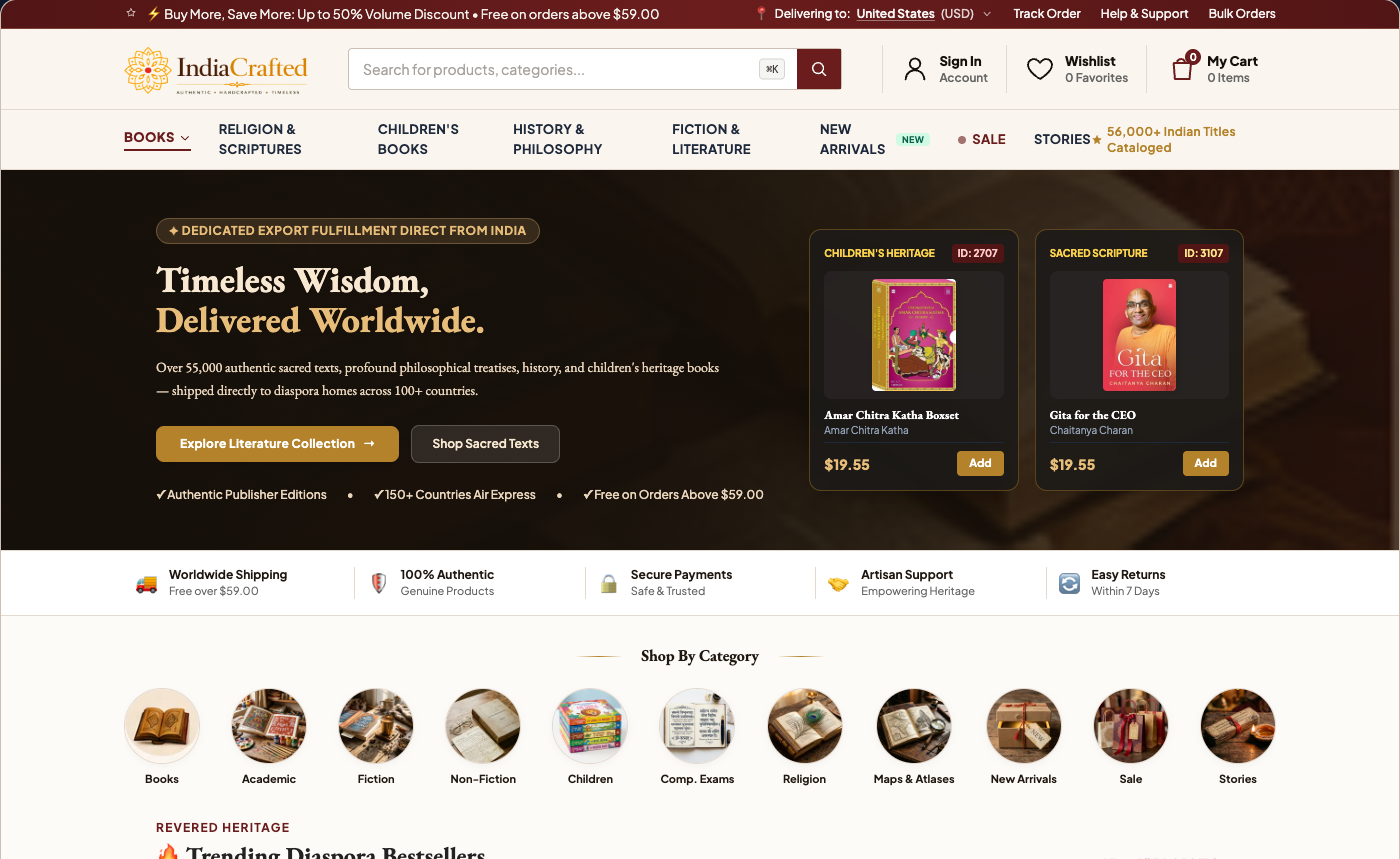
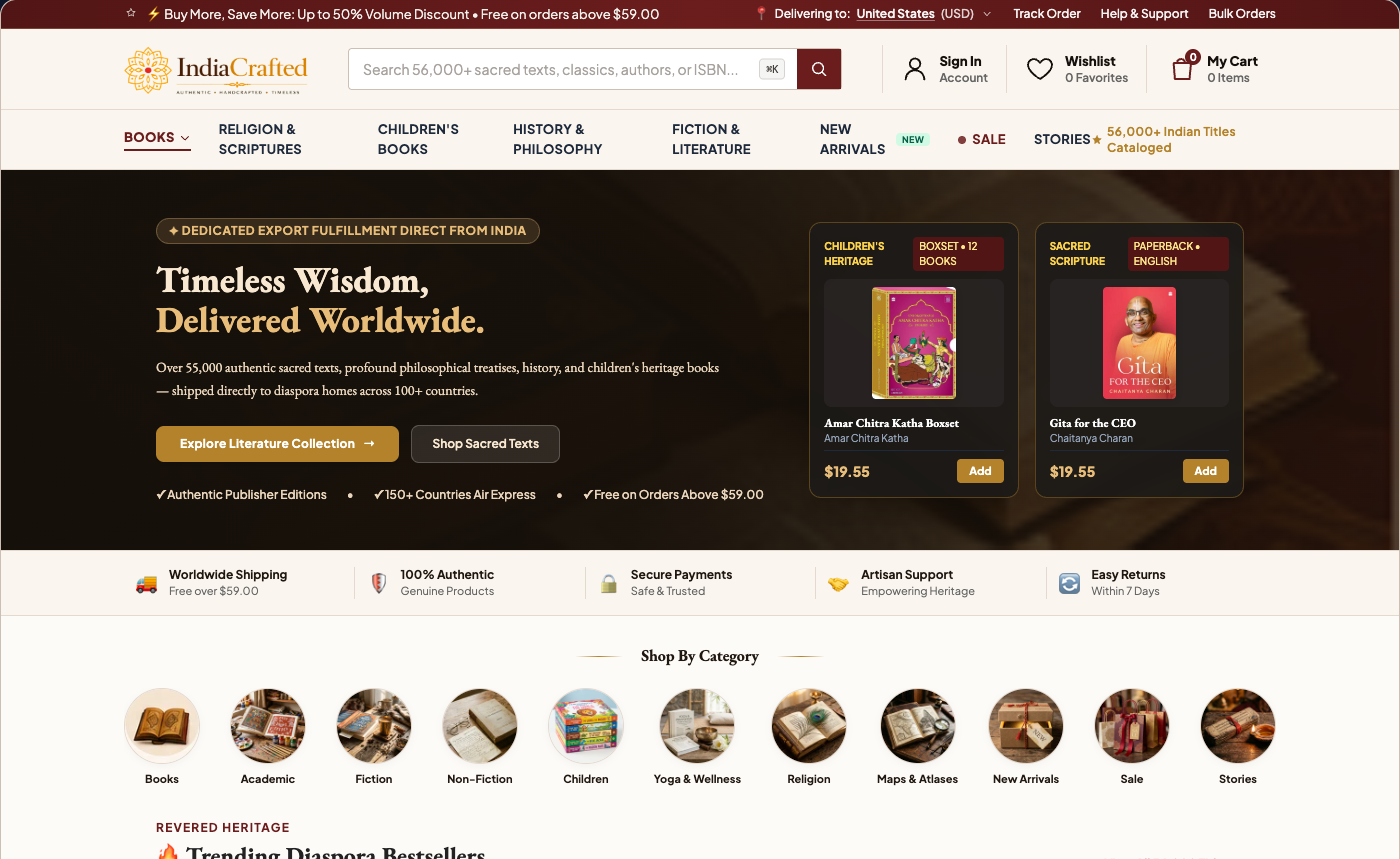
refactor: apply content & UI/UX improvements (editorial break, touch ergonomics, verified covers)

diff --git a/index.html b/index.html
@@ -217,7 +217,7 @@
           <!-- Exact Search Box with Command-K -->
           <div class="flex-1 max-w-xl mx-4">
             <div class="relative flex items-center bg-white border border-[#cdbfb4] rounded focus-within:border-[#6b1d1d] focus-within:ring-2 focus-within:ring-[#6b1d1d]/10 transition shadow-2xs">
-              <input type="text" placeholder="Search for products, categories..." class="w-full bg-transparent px-3.5 py-2.5 text-sm text-slate-800 placeholder-stone-400 focus:outline-none">
+              <input type="text" placeholder="Search 56,000+ sacred texts, classics, authors, or ISBN..." class="w-full bg-transparent px-3.5 py-2.5 text-sm text-slate-800 placeholder-stone-400 focus:outline-none">
               <kbd class="hidden lg:inline-flex items-center pointer-events-none select-none absolute right-14 top-1/2 -translate-y-1/2 px-1.5 py-0.5 text-[10px] font-medium text-stone-700 bg-stone-100 border border-stone-300 rounded shadow-2xs">
                 ⌘K
               </kbd>
@@ -333,12 +333,12 @@
           <!-- Right Column (5 Cols): Dual Real DB Product Spotlight -->
           <div class="col-span-5 grid grid-cols-2 gap-4">
             
-            <!-- Spotlight 1: ACK Boxset (ID 2707) -->
+            <!-- Spotlight 1: ACK Boxset (ACK Boxset) -->
             <div class="bg-stone-900/90 border border-[#b3822a]/40 rounded-xl p-3.5 shadow-xl flex flex-col justify-between book-card backdrop-blur-sm">
               <div>
                 <div class="flex items-center justify-between text-[10px] font-bold text-amber-300 uppercase mb-2">
                   <span>Children's Heritage</span>
-                  <span class="bg-[#521515] text-red-200 px-1.5 py-0.5 rounded">ID: 2707</span>
+                  <span class="bg-[#521515] text-amber-200 px-1.5 py-0.5 rounded font-medium">Boxset • 12 Books</span>
                 </div>
                 <div class="bg-stone-800/80 rounded-lg p-2 mb-2 flex justify-center">
                   <img src="https://storage.googleapis.com/india-crafted-media/products/2707/originals/a088d6bd-0a7e-4224-8647-baa0046d6e8e_medium.webp" alt="ACK" class="h-28 object-contain rounded book-spine">
@@ -352,12 +352,12 @@
               </div>
             </div>
 
-            <!-- Spotlight 2: Gita for CEO (ID 3107) -->
+            <!-- Spotlight 2: Gita for CEO -->
             <div class="bg-stone-900/90 border border-[#b3822a]/40 rounded-xl p-3.5 shadow-xl flex flex-col justify-between book-card backdrop-blur-sm">
               <div>
                 <div class="flex items-center justify-between text-[10px] font-bold text-amber-300 uppercase mb-2">
                   <span>Sacred Scripture</span>
-                  <span class="bg-[#521515] text-amber-200 px-1.5 py-0.5 rounded">ID: 3107</span>
+                  <span class="bg-[#521515] text-amber-200 px-1.5 py-0.5 rounded font-medium">Paperback • English</span>
                 </div>
                 <div class="bg-stone-800/80 rounded-lg p-2 mb-2 flex justify-center">
                   <img src="https://storage.googleapis.com/india-crafted-media/products/3107/originals/2c6c5b2c-37d3-4cee-944f-add8422c5f6a_medium.webp" alt="Gita" class="h-28 object-contain rounded book-spine">
@@ -376,8 +376,8 @@
         </div>
       </section>
 
-      <!-- Exact Service Strip from Home.tsx -->
-      <section class="border-y border-[#e4d9cf] bg-white py-4 px-8">
+      <!-- Exact Service Strip from Home.tsx (Harmonized Warm Ivory Background) -->
+      <section class="border-y border-[#e4d9cf] bg-[#faf6ef] py-4 px-8">
         <div class="max-w-6xl mx-auto grid grid-cols-5 divide-x divide-[#e4d9cf] text-xs">
           <div class="px-3 flex items-center gap-3">
             <span class="text-[#6b1d1d] text-lg">🚚</span>
@@ -457,10 +457,10 @@
               <strong>Children</strong>
             </div>
 
-            <!-- 6. Competitive Exams -->
+            <!-- 6. Yoga & Wellness -->
             <div class="category-orb cursor-pointer">
-              <span><img src="categories/language-learning.webp" alt="Competitive Exams"></span>
-              <strong>Comp. Exams</strong>
+              <span><img src="categories/yoga-meditation-books.webp" alt="Yoga & Wellness"></span>
+              <strong>Yoga &amp; Wellness</strong>
             </div>
 
             <!-- 7. Religion -->
@@ -592,7 +592,41 @@
           </div>
         </section>
 
-        <!-- SECTION 2: NEW ARRIVALS FROM PRODUCTION SYNC (5 Columns) -->
+        <!-- EDITORIAL STORYTELLING BREAK: AMAR CHITRA KATHA HERITAGE LIBRARY -->
+        <section class="relative rounded-2xl overflow-hidden bg-[linear-gradient(135deg,#3d1010,#6b1d1d,#3d1010)] text-white p-7 shadow-lg border border-[#b3822a]/40">
+          <div class="grid grid-cols-12 gap-6 items-center">
+            <div class="col-span-8 space-y-2">
+              <span class="inline-block text-[11px] font-extrabold uppercase tracking-widest text-[#e7bd79]">
+                ✦ Cultural Roots for the Next Generation
+              </span>
+              <h3 class="text-2xl lg:text-3xl font-editorial font-bold text-amber-100 leading-tight m-0">
+                Amar Chitra Katha Heritage Library
+              </h3>
+              <p class="text-xs lg:text-sm text-[#f5e4b7] leading-relaxed max-w-xl font-editorial m-0">
+                Introduce your children to India's timeless epics, visionary leaders, and moral folk tales. Over 400 iconic illustrated titles shipped directly from publisher vaults to diaspora homes across 100+ countries.
+              </p>
+              <div class="pt-2 flex items-center gap-4">
+                <a href="#featured-bestsellers" class="bg-[#b3822a] hover:bg-[#94681e] text-white font-bold text-xs px-5 py-2.5 rounded-lg shadow-sm transition inline-flex items-center gap-2">
+                  <span>Explore 400+ Stories</span>
+                  <span>→</span>
+                </a>
+                <span class="text-xs text-amber-200/90 font-medium">✓ Complete Collector Boxsets Available</span>
+              </div>
+            </div>
+            <div class="col-span-4 flex justify-end gap-2.5">
+              <div class="w-24 bg-white/10 backdrop-blur rounded-lg p-1.5 shadow-md border border-white/20 transform -rotate-3 hover:rotate-0 transition">
+                <img src="https://storage.googleapis.com/india-crafted-media/products/2707/originals/a088d6bd-0a7e-4224-8647-baa0046d6e8e_medium.webp" alt="ACK Boxset" class="w-full h-32 object-contain rounded">
+                <div class="text-[9px] font-bold text-amber-200 mt-1 text-center truncate">Boxset (12 Books)</div>
+              </div>
+              <div class="w-24 bg-white/10 backdrop-blur rounded-lg p-1.5 shadow-md border border-white/20 transform rotate-3 hover:rotate-0 transition">
+                <img src="https://storage.googleapis.com/india-crafted-media/products/2648/originals/34016185-baa2-4a21-ac71-49e819e589e4_medium.webp" alt="Mahabharata" class="w-full h-32 object-contain rounded">
+                <div class="text-[9px] font-bold text-amber-200 mt-1 text-center truncate">Mahabharata</div>
+              </div>
+            </div>
+          </div>
+        </section>
+
+        <!-- SECTION 2: NEW ARRIVALS FROM PRODUCTION SYNC (5 Columns with Verified Covers) -->
         <section id="new-arrivals-section">
           <div class="flex items-end justify-between mb-5 border-b border-[#e4d9cf] pb-3">
             <div>
@@ -603,12 +637,12 @@
           </div>
 
           <div class="grid grid-cols-5 gap-4">
-            <!-- 59481 -->
+            <!-- 1. The Poetics of Theatre -->
             <div class="bg-white rounded-lg p-3 border border-[#e4d9cf] shadow-xs book-card flex flex-col justify-between">
               <div>
                 <div class="relative bg-[#fbf5ed] rounded p-2 mb-2.5 flex justify-center">
                   <img src="https://storage.googleapis.com/india-crafted-media/products/59481/originals/075a66c4-cfaf-4585-9a99-c0f73212ec98_medium.webp" alt="Theatre" class="h-38 object-contain rounded book-spine">
-                  <span class="absolute top-1 left-1 bg-emerald-700 text-white text-[9px] font-bold px-1.5 py-0.5 rounded">ID: 59481</span>
+                  <span class="absolute top-1 left-1 bg-[#b3822a] text-white text-[9px] font-bold px-1.5 py-0.5 rounded">Hardcover • English</span>
                 </div>
                 <h4 class="font-bold text-xs text-stone-900 line-clamp-2 leading-snug font-editorial text-sm">The Poetics of Theatre in Early India</h4>
                 <p class="text-[11px] text-[#666666] mt-0.5">Dhananjay Singh</p>
@@ -619,12 +653,12 @@
               </div>
             </div>
 
-            <!-- 59478 -->
+            <!-- 2. Shor Macha Jungle Me -->
             <div class="bg-white rounded-lg p-3 border border-[#e4d9cf] shadow-xs book-card flex flex-col justify-between">
               <div>
                 <div class="relative bg-[#fbf5ed] rounded p-2 mb-2.5 flex justify-center">
                   <img src="https://storage.googleapis.com/india-crafted-media/products/59478/originals/ec35051d-9f56-497c-a539-e2834573686a_medium.webp" alt="Jungle" class="h-38 object-contain rounded book-spine">
-                  <span class="absolute top-1 left-1 bg-emerald-700 text-white text-[9px] font-bold px-1.5 py-0.5 rounded">ID: 59478</span>
+                  <span class="absolute top-1 left-1 bg-emerald-700 text-white text-[9px] font-bold px-1.5 py-0.5 rounded">Kids • Illustrated</span>
                 </div>
                 <h4 class="font-bold text-xs text-stone-900 line-clamp-2 leading-snug font-editorial text-sm">Shor Macha Jungle Me</h4>
                 <p class="text-[11px] text-[#666666] mt-0.5">Jagdish Joshi</p>
@@ -635,15 +669,15 @@
               </div>
             </div>
 
-            <!-- 59476 -->
+            <!-- 3. Upanishads Poetry (Replaced missing cover with verified ID 4388) -->
             <div class="bg-white rounded-lg p-3 border border-[#e4d9cf] shadow-xs book-card flex flex-col justify-between">
               <div>
                 <div class="relative bg-[#fbf5ed] rounded p-2 mb-2.5 flex justify-center">
-                  <img src="https://storage.googleapis.com/india-crafted-media/products/59476/originals/b5800eee-18cf-4fdd-880b-ef63c1ddea38_medium.webp" alt="Transcendent" class="h-38 object-contain rounded book-spine">
-                  <span class="absolute top-1 left-1 bg-emerald-700 text-white text-[9px] font-bold px-1.5 py-0.5 rounded">ID: 59476</span>
+                  <img src="https://storage.googleapis.com/india-crafted-media/products/4388/originals/67c38b5d-1243-4340-a9d9-7f68413b81b3_medium.webp" alt="Upanishads" class="h-38 object-contain rounded book-spine">
+                  <span class="absolute top-1 left-1 bg-[#6b1d1d] text-white text-[9px] font-bold px-1.5 py-0.5 rounded">Upanishads • English</span>
                 </div>
-                <h4 class="font-bold text-xs text-stone-900 line-clamp-2 leading-snug font-editorial text-sm">Paramarthagite</h4>
-                <p class="text-[11px] text-[#666666] mt-0.5">Swami Sahajananda</p>
+                <h4 class="font-bold text-xs text-stone-900 line-clamp-2 leading-snug font-editorial text-sm">Poetry Inspired by the Upanishads</h4>
+                <p class="text-[11px] text-[#666666] mt-0.5">Bibhu Padhi</p>
               </div>
               <div class="pt-2.5 mt-2 border-t border-[#f5efeb] flex items-center justify-between">
                 <span class="font-extrabold text-[#6b1d1d] text-sm">$14.99</span>
@@ -651,28 +685,28 @@
               </div>
             </div>
 
-            <!-- 59475 -->
+            <!-- 4. Hindu Fables from the Vedas (Replaced missing cover with verified ID 4329) -->
             <div class="bg-white rounded-lg p-3 border border-[#e4d9cf] shadow-xs book-card flex flex-col justify-between">
               <div>
                 <div class="relative bg-[#fbf5ed] rounded p-2 mb-2.5 flex justify-center">
-                  <img src="https://storage.googleapis.com/india-crafted-media/products/59475/originals/77e91f10-a827-4799-b1c6-b90607c18886_medium.webp" alt="Kaverippakkam" class="h-38 object-contain rounded book-spine">
-                  <span class="absolute top-1 left-1 bg-emerald-700 text-white text-[9px] font-bold px-1.5 py-0.5 rounded">ID: 59475</span>
+                  <img src="https://storage.googleapis.com/india-crafted-media/products/4329/originals/d35425ef-0ed8-4097-ac27-7406a930c438_medium.webp" alt="Vedas" class="h-38 object-contain rounded book-spine">
+                  <span class="absolute top-1 left-1 bg-purple-700 text-white text-[9px] font-bold px-1.5 py-0.5 rounded">Vedic Heritage</span>
                 </div>
-                <h4 class="font-bold text-xs text-stone-900 line-clamp-2 leading-snug font-editorial text-sm">Kāvērippākkam: Art</h4>
-                <p class="text-[11px] text-[#666666] mt-0.5">Srinivasa Desikan</p>
+                <h4 class="font-bold text-xs text-stone-900 line-clamp-2 leading-snug font-editorial text-sm">Hindu Fables from Vedas to Vivekananda</h4>
+                <p class="text-[11px] text-[#666666] mt-0.5">Renuka Narayanan</p>
               </div>
               <div class="pt-2.5 mt-2 border-t border-[#f5efeb] flex items-center justify-between">
-                <span class="font-extrabold text-[#6b1d1d] text-sm">$17.66</span>
+                <span class="font-extrabold text-[#6b1d1d] text-sm">$14.99</span>
                 <button class="bg-[#6b1d1d] hover:bg-[#521515] text-white text-xs px-3 py-1 rounded font-bold transition">Add</button>
               </div>
             </div>
 
-            <!-- 59477 -->
+            <!-- 5. Parinam Aur Sone Ki Tikiya -->
             <div class="bg-white rounded-lg p-3 border border-[#e4d9cf] shadow-xs book-card flex flex-col justify-between">
               <div>
                 <div class="relative bg-[#fbf5ed] rounded p-2 mb-2.5 flex justify-center">
                   <img src="https://storage.googleapis.com/india-crafted-media/products/59477/originals/53dd264d-5afa-48e3-9c10-dea945f10a4a_thumbnail.webp" alt="Parinam" class="h-38 object-contain rounded book-spine">
-                  <span class="absolute top-1 left-1 bg-emerald-700 text-white text-[9px] font-bold px-1.5 py-0.5 rounded">ID: 59477</span>
+                  <span class="absolute top-1 left-1 bg-[#521515] text-white text-[9px] font-bold px-1.5 py-0.5 rounded">Classics • Hindi</span>
                 </div>
                 <h4 class="font-bold text-xs text-stone-900 line-clamp-2 leading-snug font-editorial text-sm">Parinam Aur Sone Ki Tikiya</h4>
                 <p class="text-[11px] text-[#666666] mt-0.5">Hindi Classics</p>
@@ -809,11 +843,11 @@
           <button class="bg-[#6b1d1d] text-white px-3 py-1 rounded-full text-xs font-bold shrink-0">📚 All Books</button>
           <button class="bg-white text-[#6b1d1d] border border-[#e4d9cf] px-3 py-1 rounded-full text-xs font-medium shrink-0">🕉 Scriptures</button>
           <button class="bg-white text-stone-800 border border-[#e4d9cf] px-3 py-1 rounded-full text-xs font-medium shrink-0">🎨 Kids &amp; ACK</button>
+          <button class="bg-white text-stone-800 border border-[#e4d9cf] px-3 py-1 rounded-full text-xs font-medium shrink-0">🧘 Yoga &amp; Wellness</button>
           <button class="bg-white text-stone-800 border border-[#e4d9cf] px-3 py-1 rounded-full text-xs font-medium shrink-0">🏛 History</button>
-          <button class="bg-white text-stone-800 border border-[#e4d9cf] px-3 py-1 rounded-full text-xs font-medium shrink-0">🧘 Yoga</button>
         </div>
 
-        <!-- Compact Hero Spotlight (Height: 110px) -->
+        <!-- Compact Hero Spotlight (Height: 105px) -->
         <div class="relative bg-[#16100a] text-white p-3 flex items-center justify-between gap-2 overflow-hidden">
           <img src="books-banner.png" alt="Hero" class="absolute inset-0 w-full h-full object-cover opacity-25">
           <div class="absolute inset-0 bg-gradient-to-r from-black/90 via-black/75 to-transparent"></div>
@@ -828,13 +862,13 @@
           <div class="bg-black/60 border border-[#b3822a]/40 rounded-lg p-1.5 flex items-center gap-2 shrink-0 relative z-10">
             <img src="https://storage.googleapis.com/india-crafted-media/products/2707/originals/a088d6bd-0a7e-4224-8647-baa0046d6e8e_medium.webp" alt="ACK" class="w-10 h-13 object-cover rounded">
             <div class="text-[10px] pr-1">
-              <div class="text-amber-400 font-bold">ACK Boxset</div>
+              <div class="text-amber-400 font-bold truncate max-w-[70px]">ACK Boxset</div>
               <div class="text-[#e7bd79] font-bold text-xs">$19.55</div>
             </div>
           </div>
         </div>
 
-        <!-- Screen 1 Products Grid (Visible Immediately at y = 245px) -->
+        <!-- Screen 1 Products Grid (Visible Immediately at y = 230px with Touch-Friendly Add Buttons) -->
         <div class="p-3 bg-white border-b border-[#e4d9cf]">
           <div class="flex items-center justify-between mb-2">
             <span class="text-xs font-bold text-[#6b1d1d] uppercase">🔥 Trending Bestsellers</span>
@@ -843,7 +877,7 @@
 
           <div class="grid grid-cols-2 gap-2.5">
             <!-- P1 -->
-            <div class="bg-[#fdfbf7] border border-[#e4d9cf] rounded-lg p-2 book-card flex flex-col justify-between">
+            <div class="bg-[#fdfbf7] border border-[#e4d9cf] rounded-lg p-2.5 book-card flex flex-col justify-between">
               <div>
                 <div class="relative bg-white rounded p-1.5 mb-1.5 flex justify-center shadow-2xs">
                   <img src="https://storage.googleapis.com/india-crafted-media/products/3107/originals/2c6c5b2c-37d3-4cee-944f-add8422c5f6a_medium.webp" alt="Gita" class="h-28 object-contain rounded">
@@ -852,30 +886,42 @@
                 <h4 class="font-bold text-[11px] text-stone-900 line-clamp-1 font-editorial text-xs">Gita for the CEO</h4>
                 <p class="text-[10px] text-[#666666] line-clamp-1">Chaitanya Charan</p>
               </div>
-              <div class="pt-1.5 mt-1 border-t border-slate-200 flex items-center justify-between">
-                <span class="font-bold text-xs text-[#6b1d1d]">$19.55</span>
-                <button class="bg-[#6b1d1d] text-white text-[10px] px-2 py-0.5 rounded font-bold">Add</button>
+              <div class="pt-2 mt-1.5 border-t border-slate-200">
+                <div class="flex items-baseline justify-between mb-1">
+                  <span class="font-bold text-xs text-[#6b1d1d]">$19.55</span>
+                  <span class="text-[9px] text-stone-400">Air Express</span>
+                </div>
+                <button class="w-full bg-[#6b1d1d] active:bg-[#521515] text-white text-[11px] font-bold py-1.5 px-2 rounded flex items-center justify-center gap-1 shadow-xs">
+                  <svg class="w-3 h-3" fill="none" stroke="currentColor" viewBox="0 0 24 24"><path stroke-linecap="round" stroke-linejoin="round" stroke-width="2" d="M12 4v16m8-8H4"/></svg>
+                  Add to Cart
+                </button>
               </div>
             </div>
 
             <!-- P2 -->
-            <div class="bg-[#fdfbf7] border border-[#e4d9cf] rounded-lg p-2 book-card flex flex-col justify-between">
+            <div class="bg-[#fdfbf7] border border-[#e4d9cf] rounded-lg p-2.5 book-card flex flex-col justify-between">
               <div>
                 <div class="relative bg-white rounded p-1.5 mb-1.5 flex justify-center shadow-2xs">
                   <img src="https://storage.googleapis.com/india-crafted-media/products/2707/originals/a088d6bd-0a7e-4224-8647-baa0046d6e8e_medium.webp" alt="ACK" class="h-28 object-contain rounded">
-                  <span class="absolute top-1 left-1 bg-[#6b1d1d] text-white text-[8px] font-bold px-1 rounded">Kids</span>
+                  <span class="absolute top-1 left-1 bg-[#6b1d1d] text-white text-[8px] font-bold px-1 rounded">Boxset</span>
                 </div>
                 <h4 class="font-bold text-[11px] text-stone-900 line-clamp-1 font-editorial text-xs">ACK Stories Boxset</h4>
                 <p class="text-[10px] text-[#666666] line-clamp-1">Amar Chitra Katha</p>
               </div>
-              <div class="pt-1.5 mt-1 border-t border-slate-200 flex items-center justify-between">
-                <span class="font-bold text-xs text-[#6b1d1d]">$19.55</span>
-                <button class="bg-[#6b1d1d] text-white text-[10px] px-2 py-0.5 rounded font-bold">Add</button>
+              <div class="pt-2 mt-1.5 border-t border-slate-200">
+                <div class="flex items-baseline justify-between mb-1">
+                  <span class="font-bold text-xs text-[#6b1d1d]">$19.55</span>
+                  <span class="text-[9px] text-stone-400">Air Express</span>
+                </div>
+                <button class="w-full bg-[#6b1d1d] active:bg-[#521515] text-white text-[11px] font-bold py-1.5 px-2 rounded flex items-center justify-center gap-1 shadow-xs">
+                  <svg class="w-3 h-3" fill="none" stroke="currentColor" viewBox="0 0 24 24"><path stroke-linecap="round" stroke-linejoin="round" stroke-width="2" d="M12 4v16m8-8H4"/></svg>
+                  Add to Cart
+                </button>
               </div>
             </div>
 
             <!-- P3 -->
-            <div class="bg-[#fdfbf7] border border-[#e4d9cf] rounded-lg p-2 book-card flex flex-col justify-between">
+            <div class="bg-[#fdfbf7] border border-[#e4d9cf] rounded-lg p-2.5 book-card flex flex-col justify-between">
               <div>
                 <div class="relative bg-white rounded p-1.5 mb-1.5 flex justify-center shadow-2xs">
                   <img src="https://storage.googleapis.com/india-crafted-media/products/3923/originals/bb0cdb42-2e38-440e-a1d2-16b034e04c33_medium.webp" alt="Ramayana" class="h-28 object-contain rounded">
@@ -884,14 +930,20 @@
                 <h4 class="font-bold text-[11px] text-stone-900 line-clamp-1 font-editorial text-xs">In Footsteps of Rama</h4>
                 <p class="text-[10px] text-[#666666] line-clamp-1">Anand Neelkantan</p>
               </div>
-              <div class="pt-1.5 mt-1 border-t border-slate-200 flex items-center justify-between">
-                <span class="font-bold text-xs text-[#6b1d1d]">$23.47</span>
-                <button class="bg-[#6b1d1d] text-white text-[10px] px-2 py-0.5 rounded font-bold">Add</button>
+              <div class="pt-2 mt-1.5 border-t border-slate-200">
+                <div class="flex items-baseline justify-between mb-1">
+                  <span class="font-bold text-xs text-[#6b1d1d]">$23.47</span>
+                  <span class="text-[9px] text-stone-400">Air Express</span>
+                </div>
+                <button class="w-full bg-[#6b1d1d] active:bg-[#521515] text-white text-[11px] font-bold py-1.5 px-2 rounded flex items-center justify-center gap-1 shadow-xs">
+                  <svg class="w-3 h-3" fill="none" stroke="currentColor" viewBox="0 0 24 24"><path stroke-linecap="round" stroke-linejoin="round" stroke-width="2" d="M12 4v16m8-8H4"/></svg>
+                  Add to Cart
+                </button>
               </div>
             </div>
 
             <!-- P4 -->
-            <div class="bg-[#fdfbf7] border border-[#e4d9cf] rounded-lg p-2 book-card flex flex-col justify-between">
+            <div class="bg-[#fdfbf7] border border-[#e4d9cf] rounded-lg p-2.5 book-card flex flex-col justify-between">
               <div>
                 <div class="relative bg-white rounded p-1.5 mb-1.5 flex justify-center shadow-2xs">
                   <img src="https://storage.googleapis.com/india-crafted-media/products/3295/originals/86c626b7-1a54-4a61-bf82-03e2d534a736_medium.webp" alt="Yoga" class="h-28 object-contain rounded">
@@ -900,9 +952,15 @@
                 <h4 class="font-bold text-[11px] text-stone-900 line-clamp-1 font-editorial text-xs">Yoga Mythology</h4>
                 <p class="text-[10px] text-[#666666] line-clamp-1">Devdutt Pattanaik</p>
               </div>
-              <div class="pt-1.5 mt-1 border-t border-slate-200 flex items-center justify-between">
-                <span class="font-bold text-xs text-[#6b1d1d]">$19.55</span>
-                <button class="bg-[#6b1d1d] text-white text-[10px] px-2 py-0.5 rounded font-bold">Add</button>
+              <div class="pt-2 mt-1.5 border-t border-slate-200">
+                <div class="flex items-baseline justify-between mb-1">
+                  <span class="font-bold text-xs text-[#6b1d1d]">$19.55</span>
+                  <span class="text-[9px] text-stone-400">Air Express</span>
+                </div>
+                <button class="w-full bg-[#6b1d1d] active:bg-[#521515] text-white text-[11px] font-bold py-1.5 px-2 rounded flex items-center justify-center gap-1 shadow-xs">
+                  <svg class="w-3 h-3" fill="none" stroke="currentColor" viewBox="0 0 24 24"><path stroke-linecap="round" stroke-linejoin="round" stroke-width="2" d="M12 4v16m8-8H4"/></svg>
+                  Add to Cart
+                </button>
               </div>
             </div>
           </div>
@@ -927,6 +985,10 @@
             <div class="category-orb shrink-0">
               <span style="width: 58px; height: 58px;"><img src="categories/childrens-books.webp" alt="Kids"></span>
               <strong>Children</strong>
+            </div>
+            <div class="category-orb shrink-0">
+              <span style="width: 58px; height: 58px;"><img src="categories/yoga-meditation-books.webp" alt="Yoga"></span>
+              <strong>Yoga</strong>
             </div>
             <div class="category-orb shrink-0">
               <span style="width: 58px; height: 58px;"><img src="categories/fiction-literature.webp" alt="Fiction"></span>
